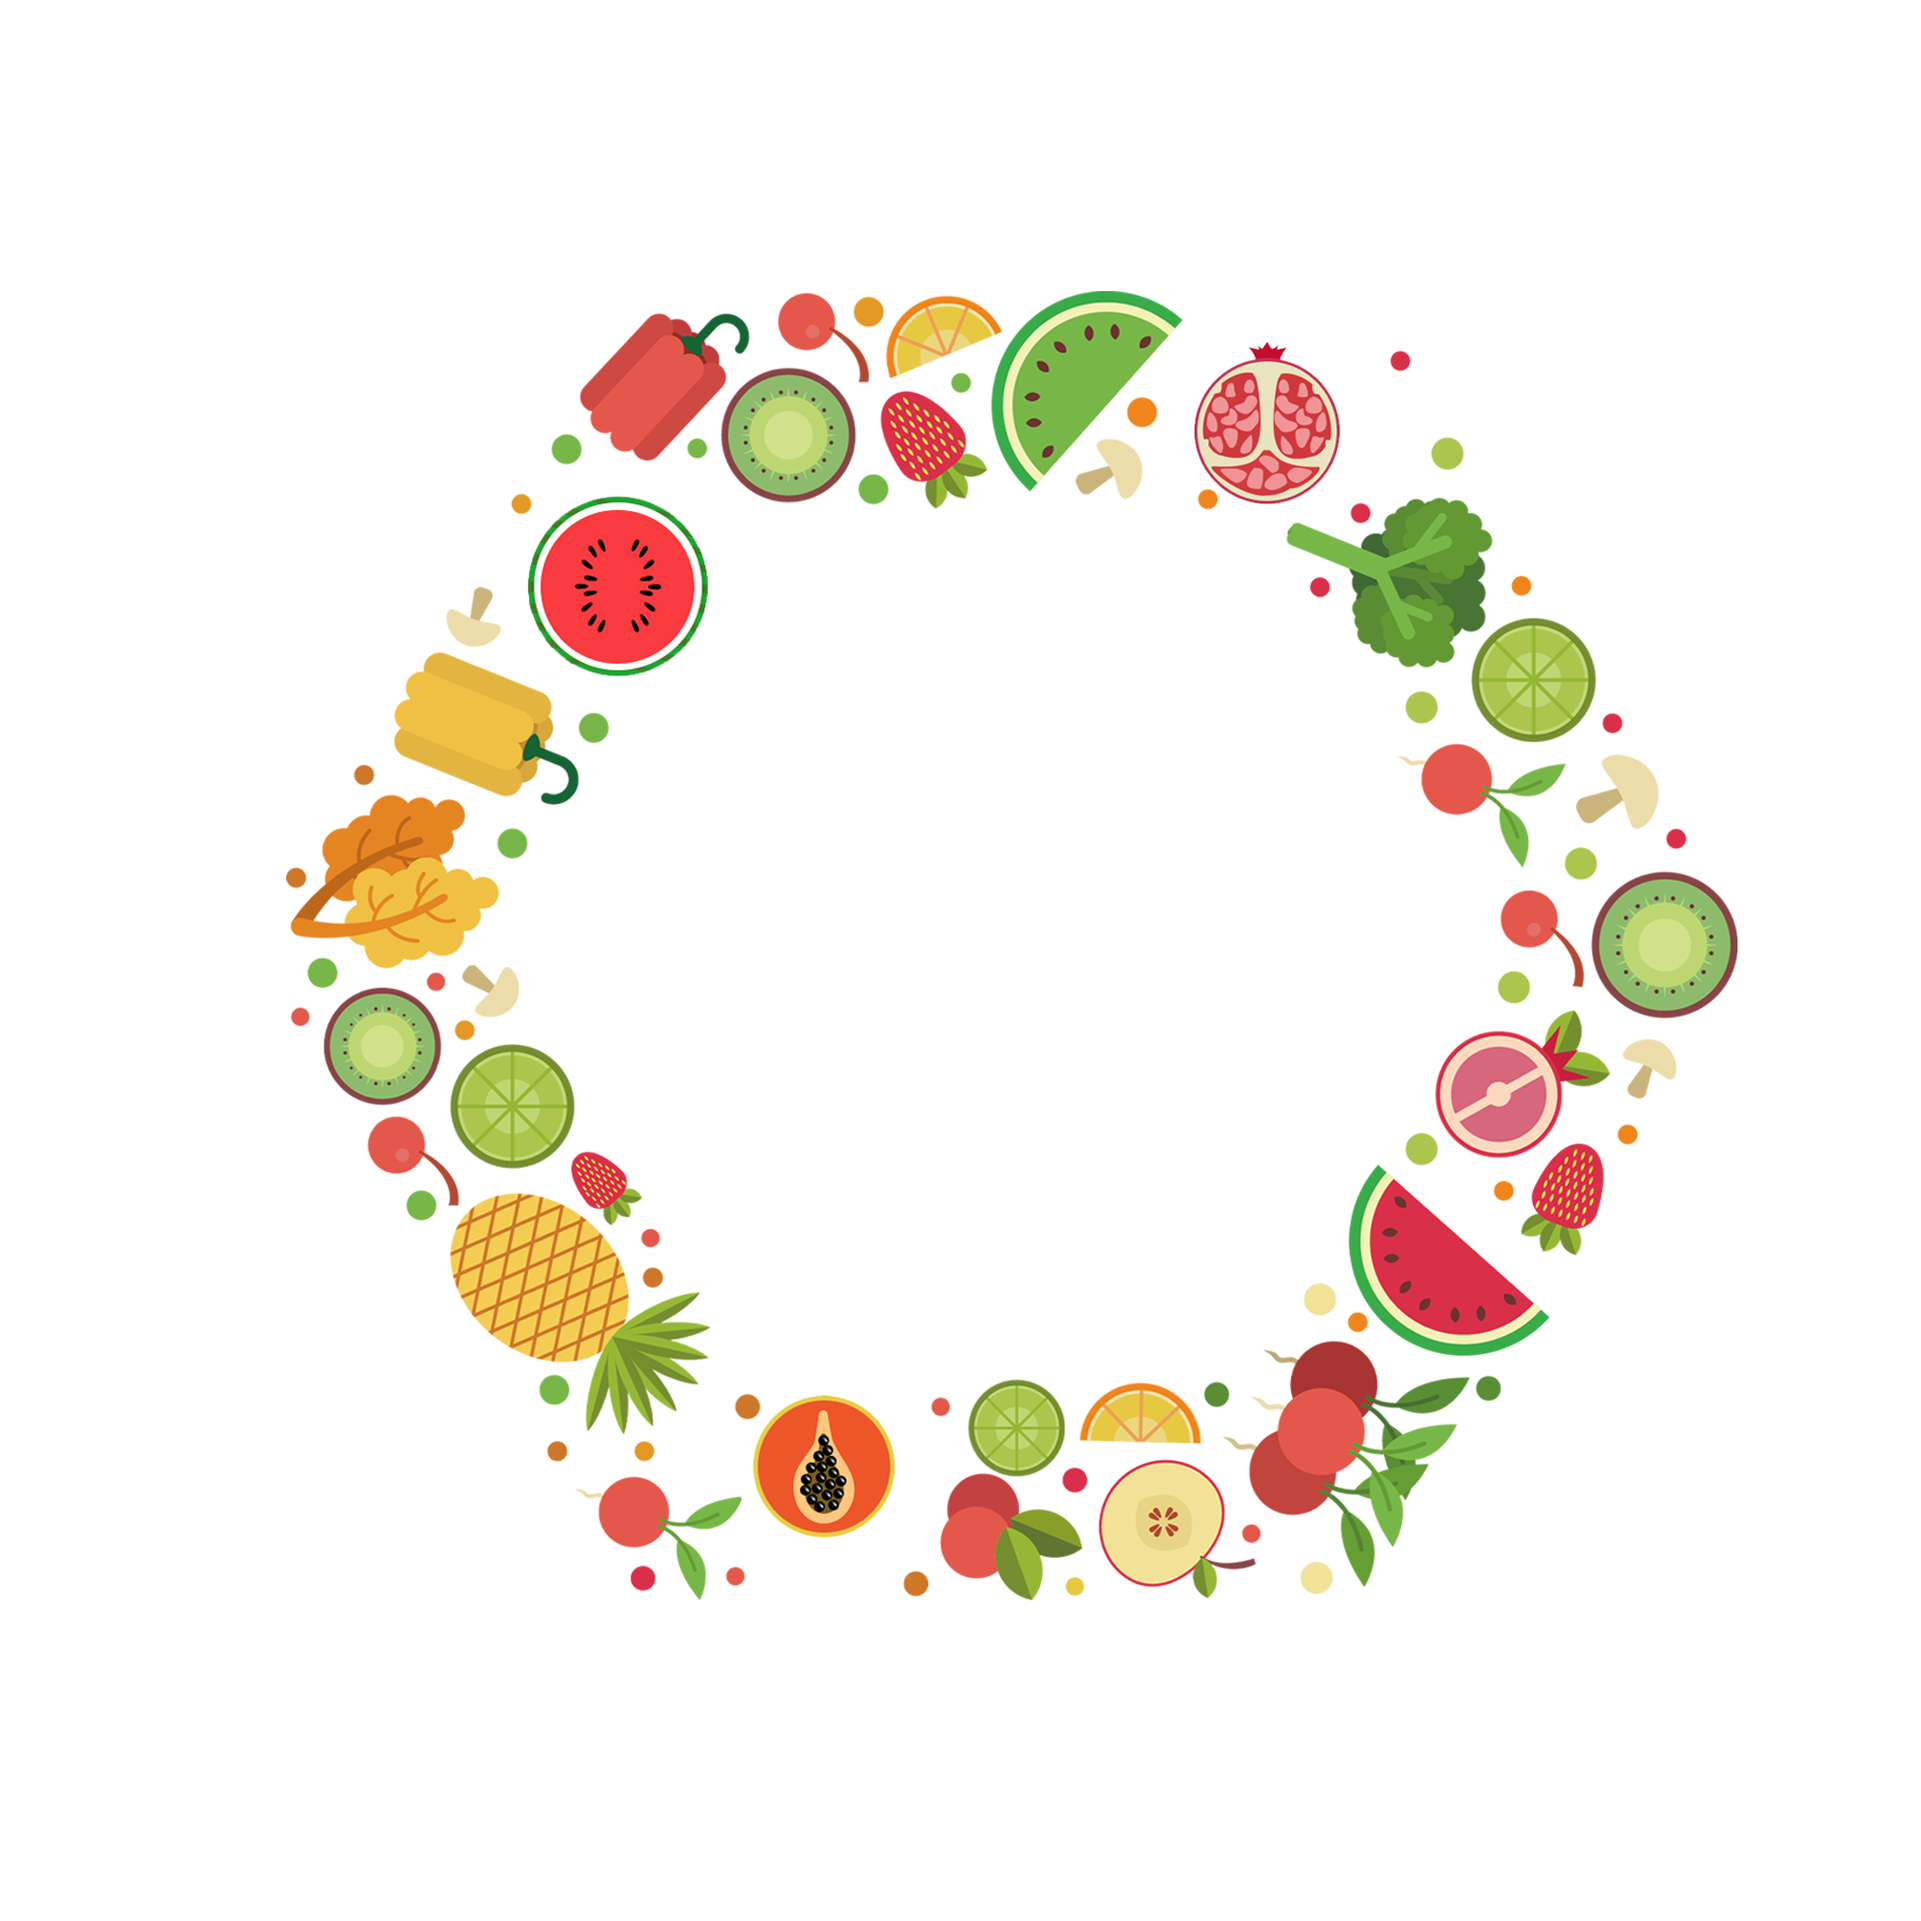
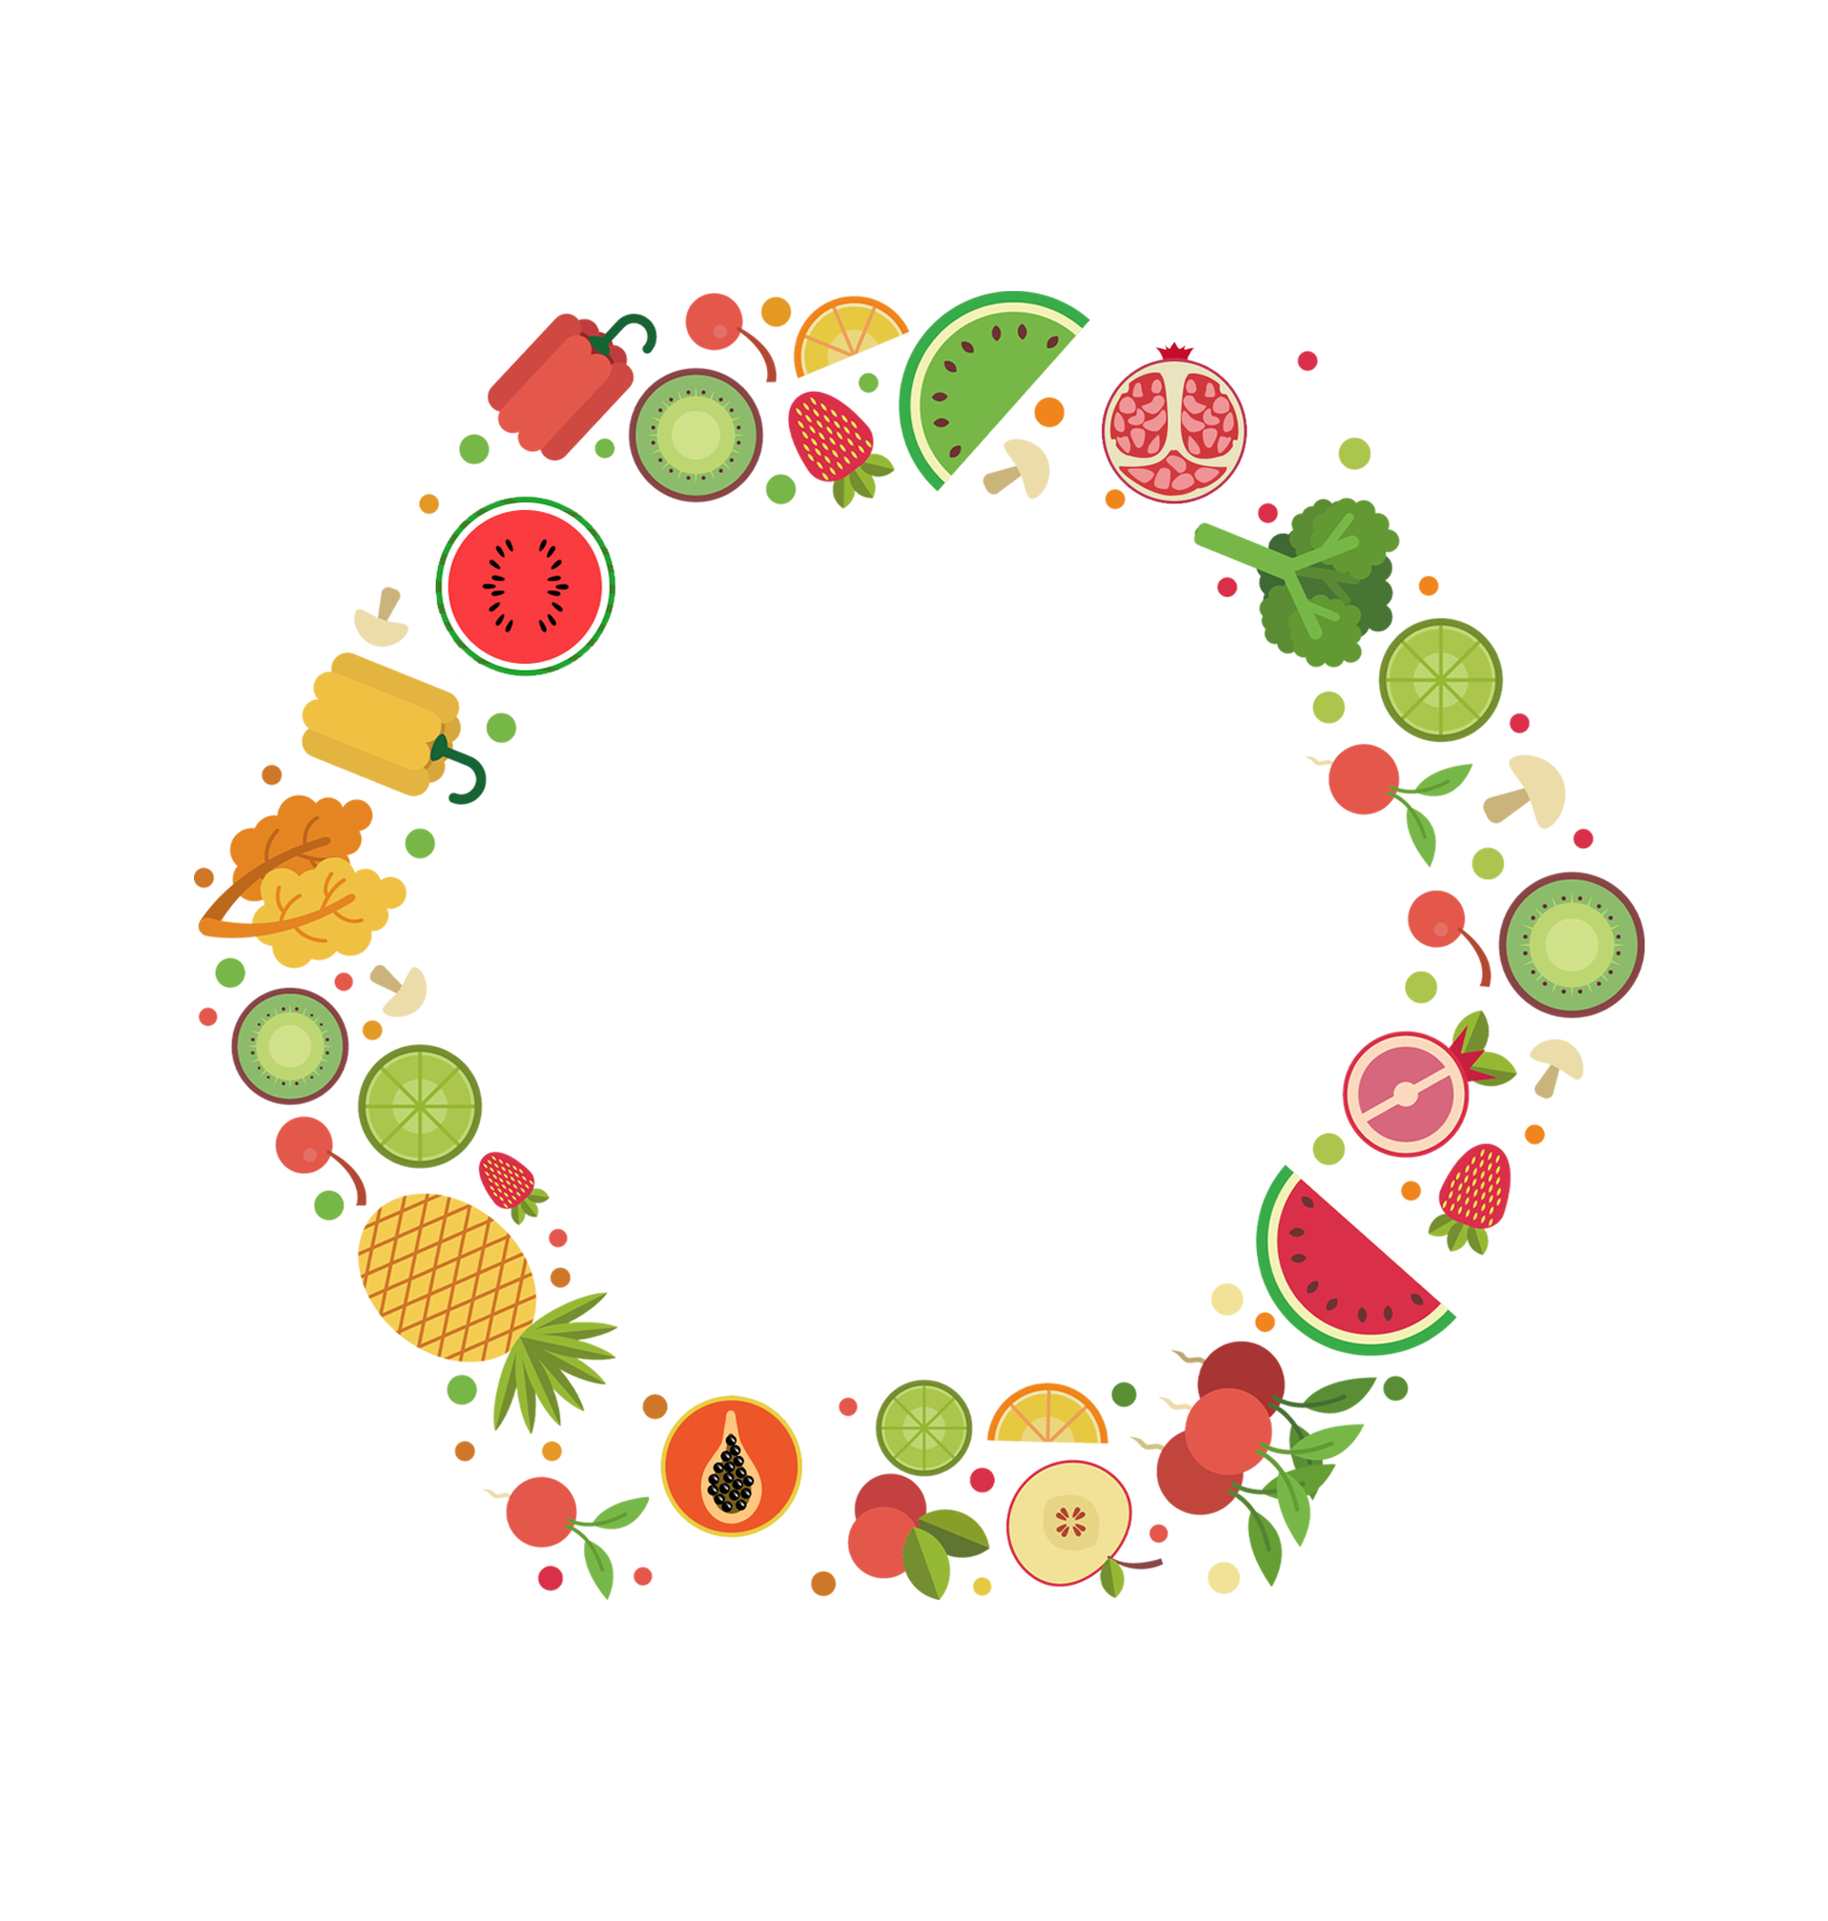
Added Search Bar

Changed region(s): [[0.093, 0.155, 0.9296, 0.837]]

diff --git a/index.html b/index.html
@@ -6,13 +6,11 @@
 
   <!-- Bootstrap CSS -->
   <link rel="stylesheet" href="node_modules/bootstrap/dist/css/bootstrap.min.css" />
-
+  <!-- Additional CSS must be placed after Bootstrap CSS -->
+  <link rel="stylesheet" href="node_modules/font-awesome/css/font-awesome.min.css" />
   <!--Custom CSS-->
-
   <link rel="stylesheet" href="css/styles.css" />
-
   <!--Amatica Sc Font-->
-
   <link rel="stylesheet" href="amatic-sc/AmaticSC-Regular.ttf" />
 
 
@@ -20,6 +18,7 @@
 </head>
 <body>
 
+<!-- NAVBAR -->
   <header>
     <nav class="navbar justify-content-end">
       <ul class="nav">
@@ -33,6 +32,9 @@
 
   <body>
     <div class="container">
+
+<!-- TITLE -->
+
       <div class="row justify-content-center">
         <div class="col">
           <h1>Food For All</h1>
@@ -40,30 +42,43 @@
 
       </div>
 
+<!-- DESCRIPTION -->
+
       <div class="row justify-content-center">
-        <div class=" col-11 col-sm-12">
+        <div class=" col-10 col-sm-12">
           <p class="about">Food For All is a neighborhood exchange network where you can share, sell, and trade food from your own garden with the people in your community.</p>
         </div>
       </div>
 
+<!-- SHARE AND FIND BUTTONS -->
+
       <div class="row">
           <div class="col-lg-6">
             <div class="text-center">
-              <button class="btn-lg" type=“button” id="share"><a class="shareButton" href=“#”>Share Your Food</a></button>
+              <button class="btn-lg" type=“button” id="share"><a class="shareButton" href=“#”>SHARE YOUR FOOD</a></button>
             </div>
           </div>
 
           <div class="col-lg-6">
             <div class="text-center">
-              <button class="btn-lg" type=“button” id="share"><a class="shareButton" id="search" href=“#”>Find Food</a></button>
+              <button class="btn-lg" type=“button” id="share"><a class="shareButton" href=“#search”>FIND FOOD</a></button>
             </div>
           </div>
       </div>
 
+<!-- SEARCH PAGE/SECTION -->
+
       <div class="row justify-content-center">
-        <div class="col">
-          <input id="search" type="text" name="search" placeholder="Search..">
-          <img src="Images/fruit_wheel.png" alt="fruit wheel" class="center visible-lg">
+        <div class="col justify-content-center">
+
+            <h2 class="center">Find food near you</h2>
+
+          <div>
+            <input class="searchBar" id="search" type="text" name="search" placeholder="Search...">
+            <a class="search-btn" href="#"><i class="fa fa-search" aria-hidden="true"></i></a>
+          </div>
+          
+          <img src="Images/fruit_wheel.png" alt="fruit wheel" class="center d-none d-sm-block">
         </div>
       </div>
 

diff --git a/css/styles.css b/css/styles.css
@@ -12,6 +12,11 @@
   src: url("/amatic-sc/AmaticSC-Regular.ttf");
 }
 
+@font-face {
+  font-family: "AmaticSCBold";
+  src: url("/amatic-sc/AmaticSC-Bold.ttf");
+}
+
 h1{
   font-family: "AmaticSC";
   font-size: 18vw;
@@ -20,12 +25,20 @@ h1{
   
 }
 
+h2 {
+  text-align: center;
+  display: absolute;
+  margin-left: auto;
+  margin-right: auto;
+  top: 100%;
+}
+
 body{
   background-color: #FFF7D3;
 }
 
 #share {
-  font-family: "AmaticSC";
+  font-family: "AmaticSCBold";
   font-size: 35px;
   color: #FF5300;
   text-decoration: none;
@@ -65,11 +78,36 @@ p.about {
 }
 
 .center {
-  display: block;
+  display: absolute;
   margin-left: auto;
   margin-right: auto;
-  width: 90%;
+  width: 93%;
 }
 
 #search {
+  text-align: left;
+  border-radius: 40px;
+}
+
+.searchBar {
+  position: absolute;
+  top: 50%;
+  left:50%;
+  transform: translate(-50%, -50%);
+  height: 50px;
+  width: 250px;
+  padding: 10px;
+  border: solid;
+  border-width: 8px;
+  border-radius: 40px;
+  border-color: #FFDFA4;
+  
+}
+
+.search-btn {
+  color: #FFDFA4;
+  position: absolute;
+  top: 50%;
+  left:58.5%;
+  transform: translate(-50%, -50%);
 }
